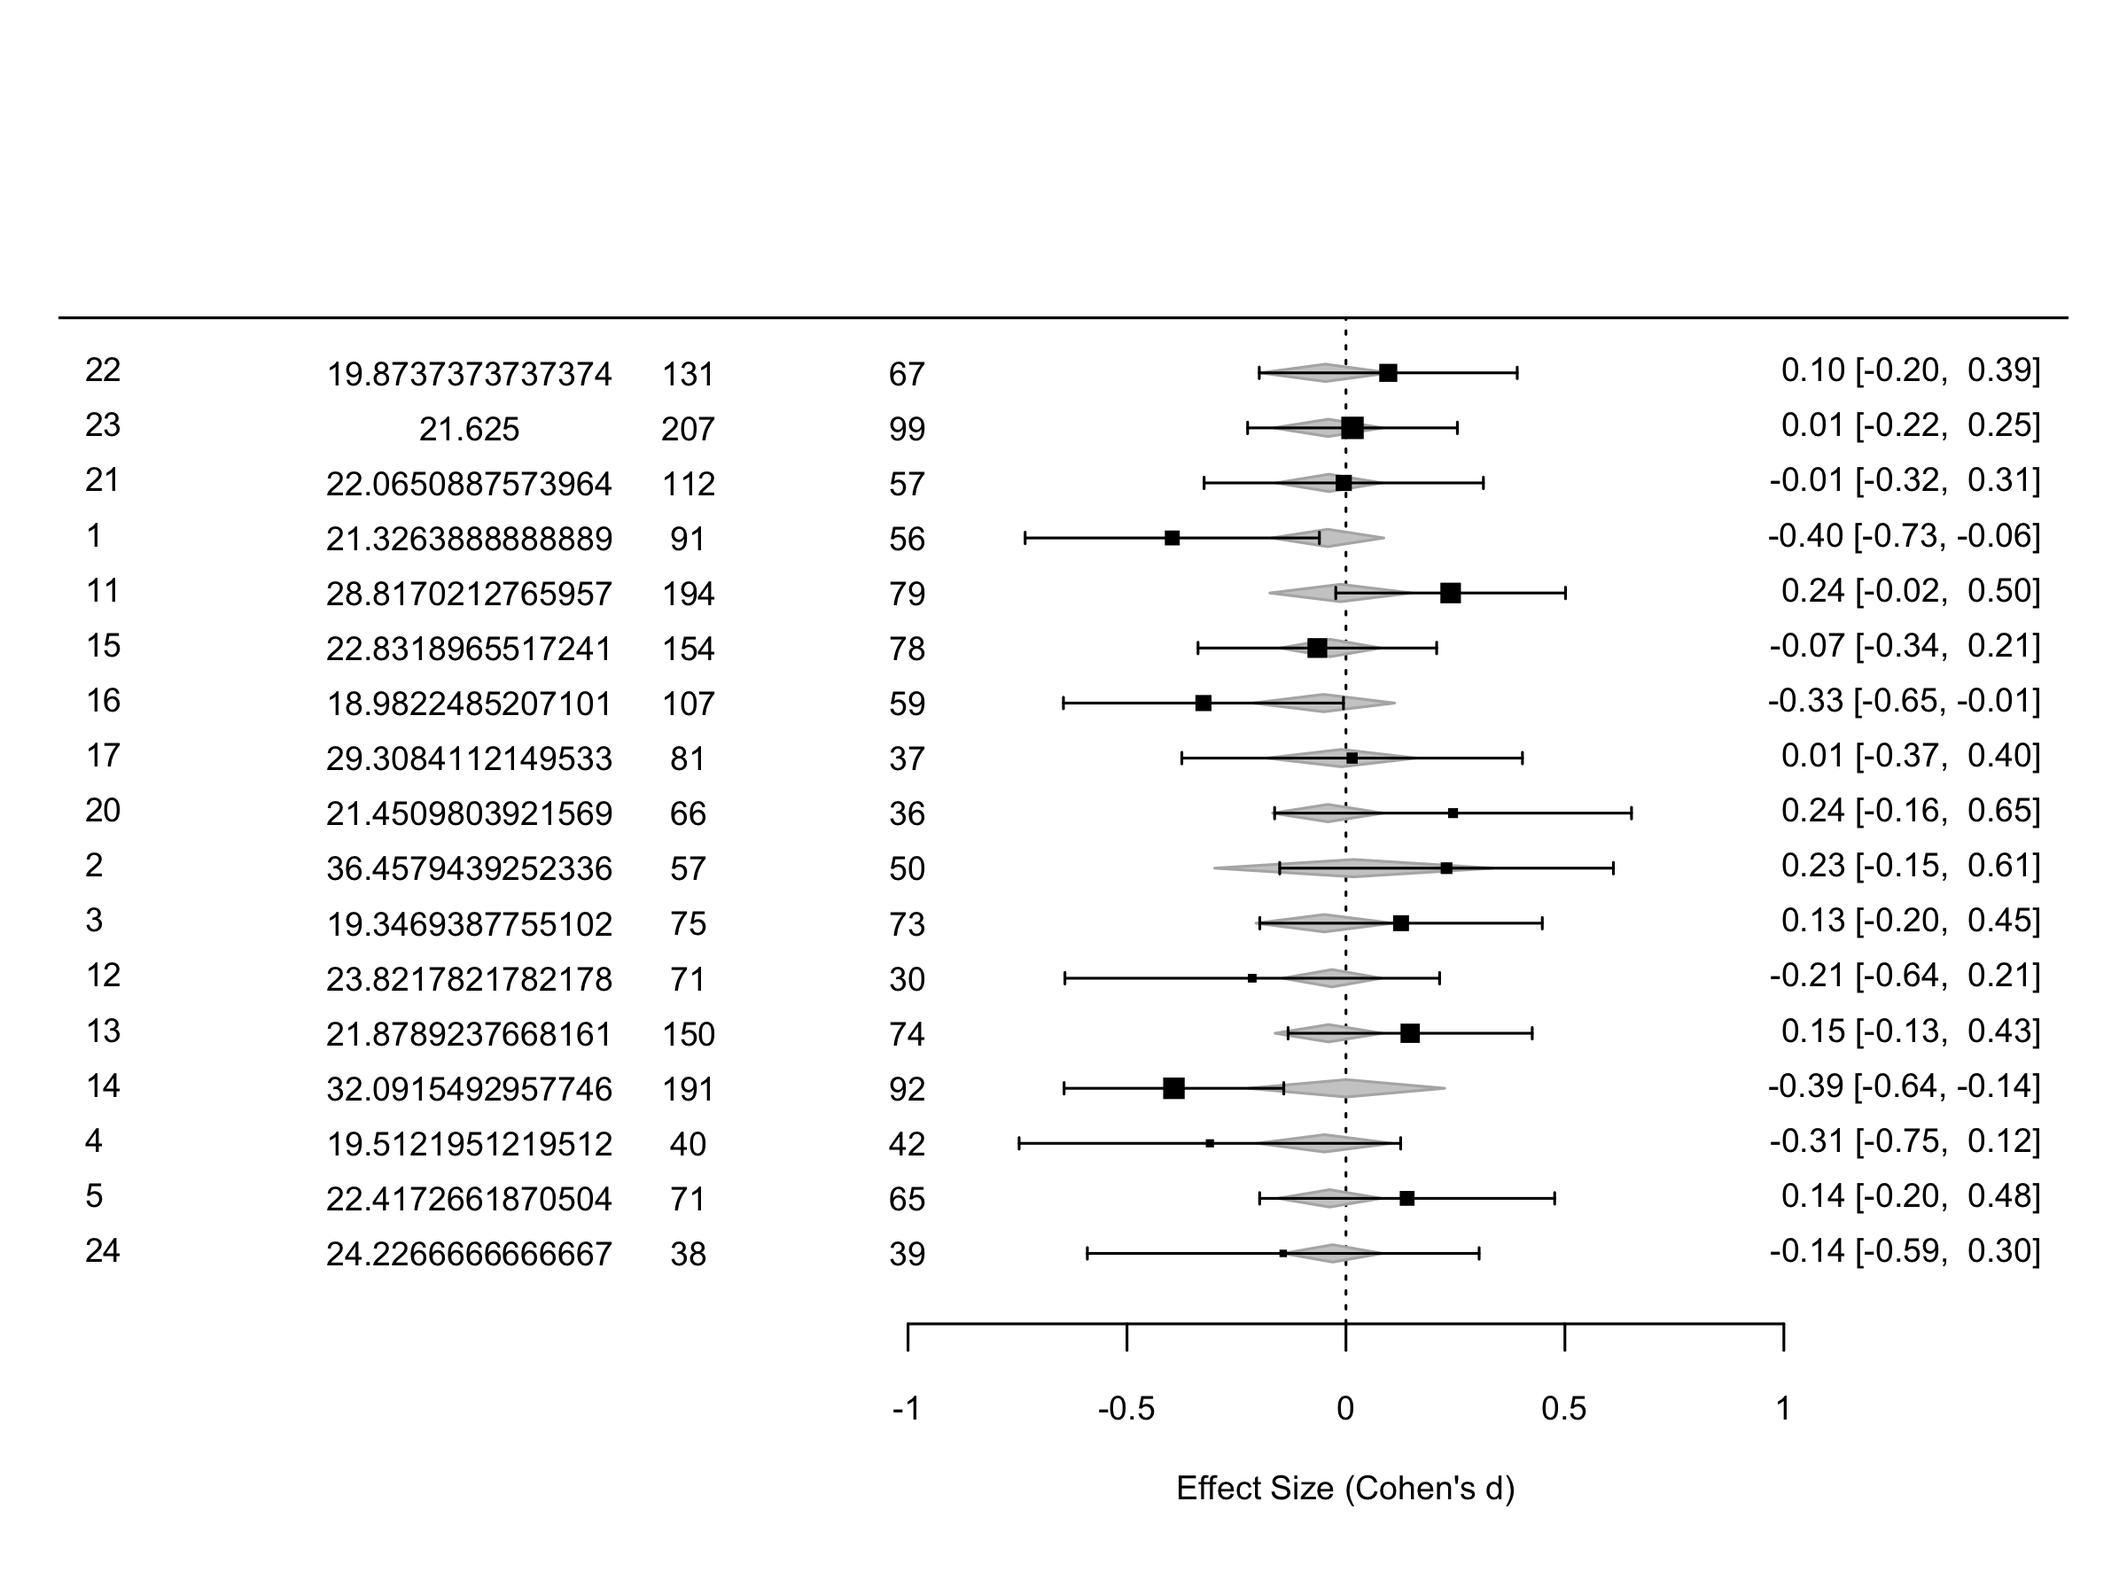
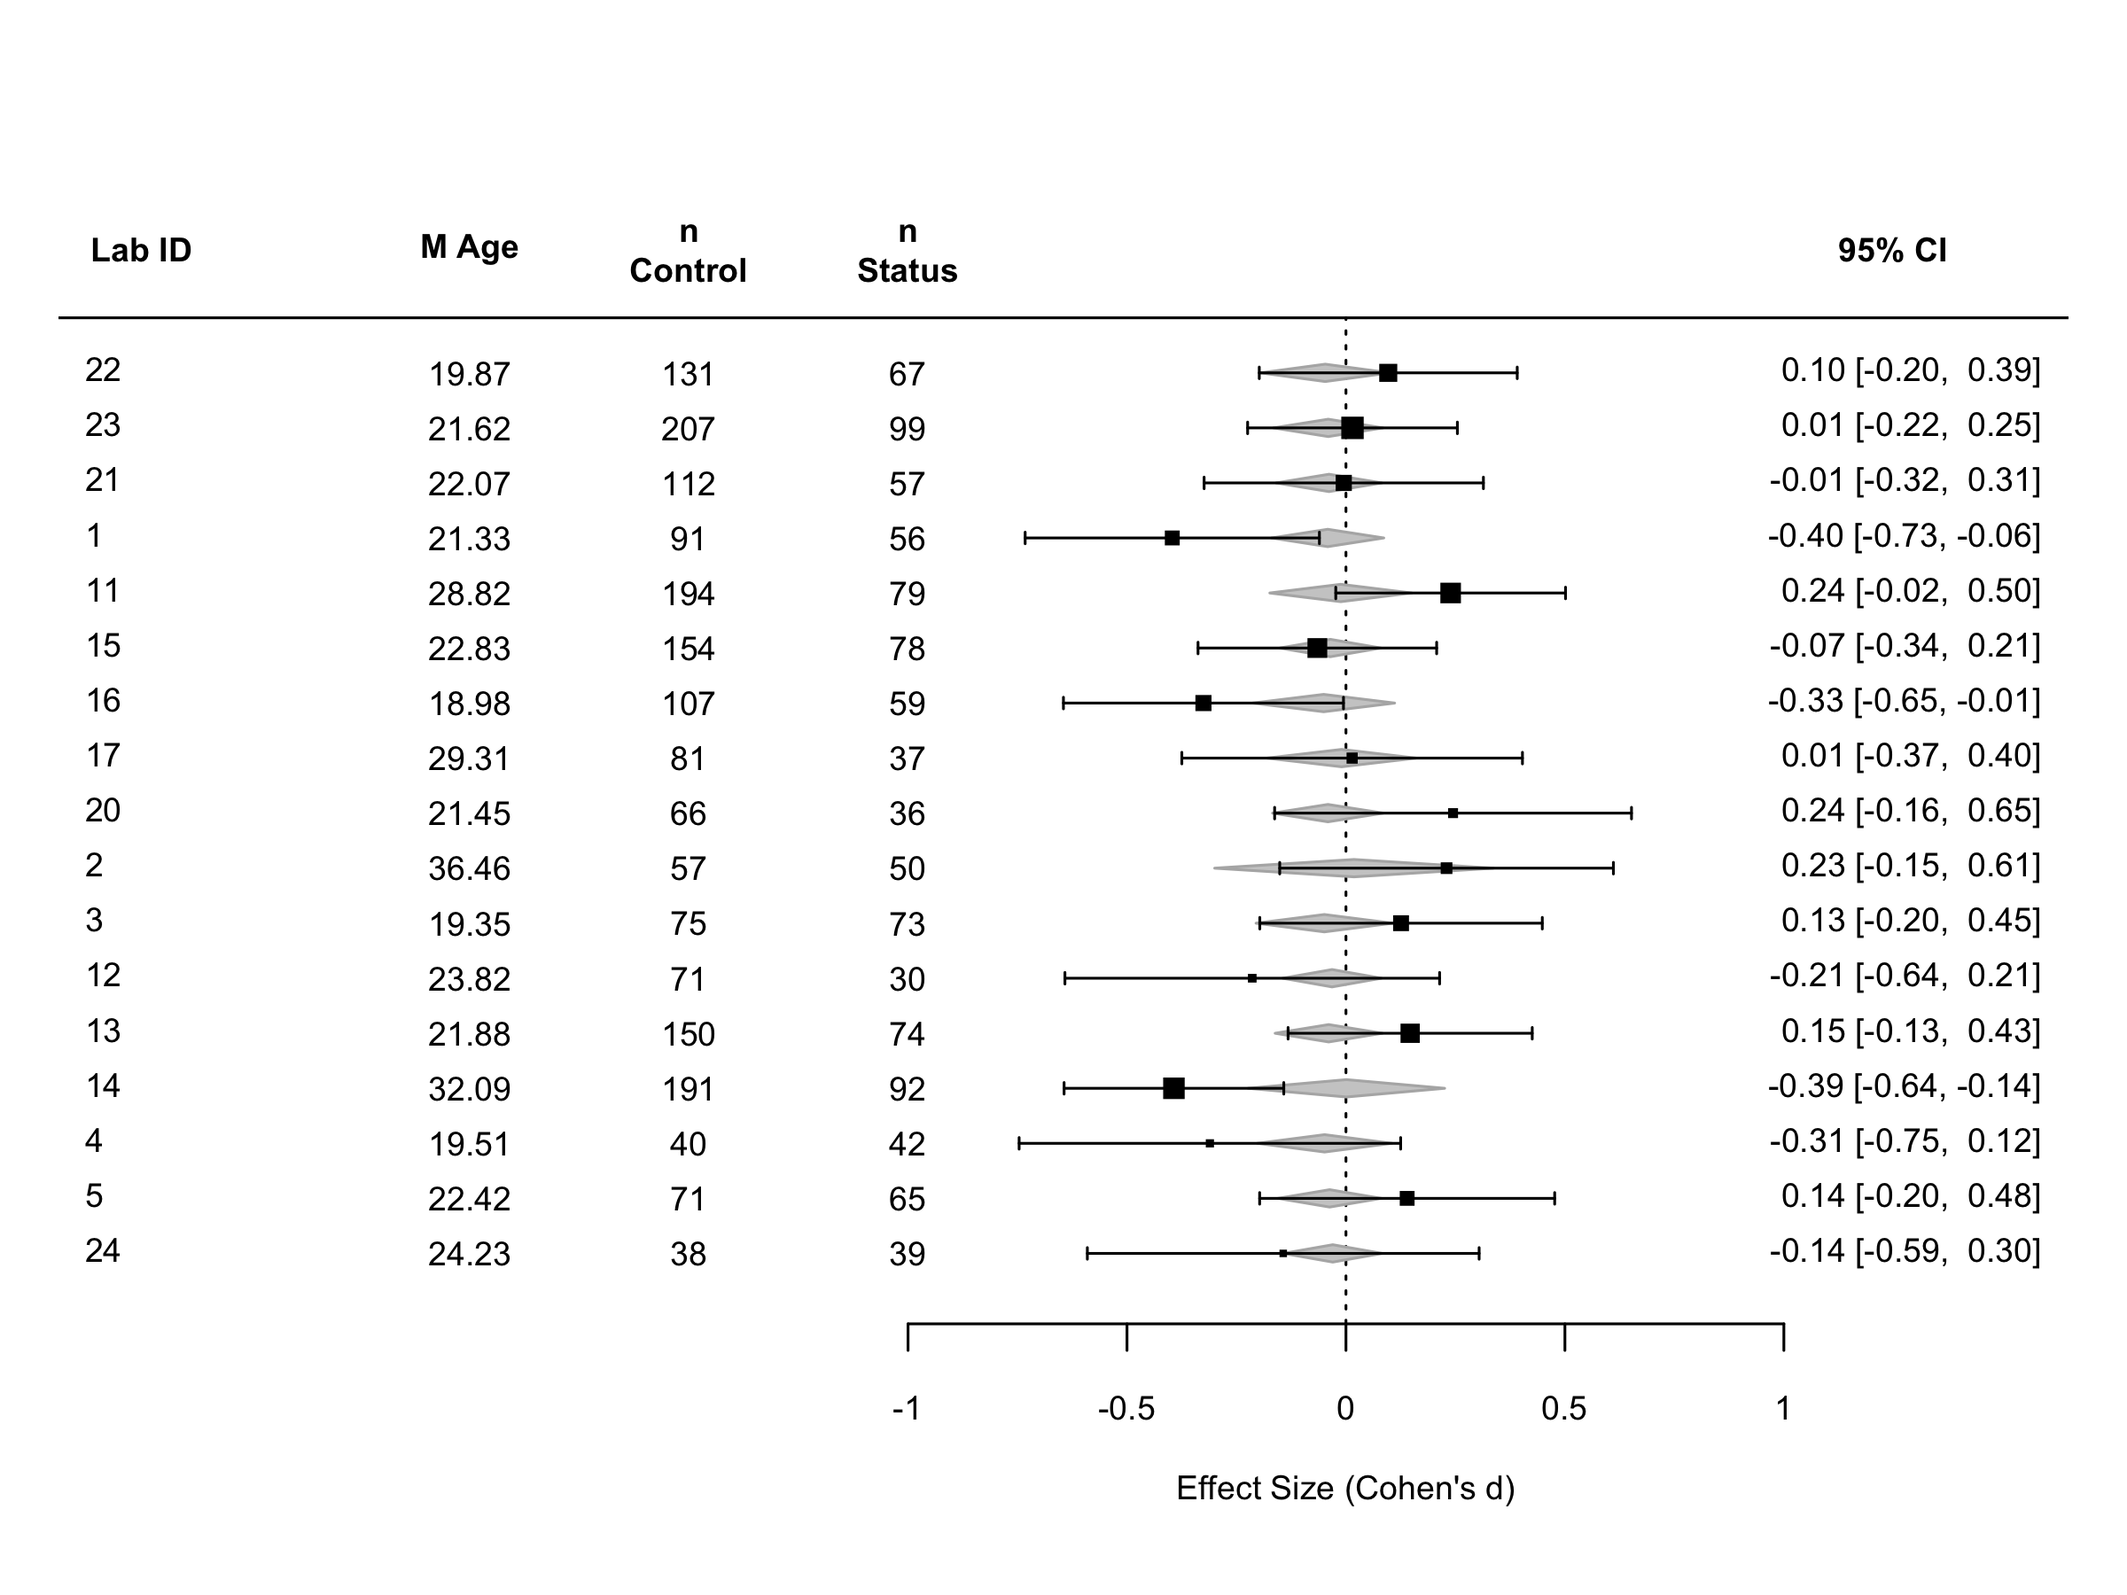
updating effect sizes and meta analyses results

diff --git a/meta-analysis/meta-analysis.html b/meta-analysis/meta-analysis.html
@@ -11,7 +11,7 @@
 
 <meta name="author" content="Erin M. Buchanan" />
 
-<meta name="date" content="2024-10-22" />
+<meta name="date" content="2024-11-13" />
 
 <title>Meta Analysis</title>
 
@@ -352,7 +352,7 @@ display: none;
 
 <h1 class="title toc-ignore">Meta Analysis</h1>
 <h4 class="author">Erin M. Buchanan</h4>
-<h4 class="date">2024-10-22</h4>
+<h4 class="date">2024-11-13</h4>
 
 </div>
 
@@ -434,7 +434,12 @@ DF &lt;- DF %&gt;%
 DF &lt;- DF %&gt;%
   group_by(project_code) %&gt;%
   mutate(proportion_conservative = mean(LiborCon_code, na.rm = TRUE)) %&gt;%
-  ungroup()</code></pre>
+  ungroup()
+
+DF &lt;- DF %&gt;% 
+  mutate(location = factor(location, 
+                           levels = c(&quot;USA&quot;, &quot;other&quot;),
+                           labels = c(&quot;USA&quot;, &quot;Other&quot;)))</code></pre>
 </div>
 <div id="effect-size" class="section level2">
 <h2>Effect Size</h2>
@@ -485,7 +490,8 @@ effect_sizes &lt;- DF %&gt;%
     mean_age = first(mean_age),
     proportion_male = first(proportion_male),
     proportion_republican = first(proportion_republican),
-    proportion_conservative = first(proportion_conservative)
+    proportion_conservative = first(proportion_conservative), 
+    location = first(location)
   ) %&gt;%
   mutate(
     total_effect_d = map_dbl(es_result, ~ .x$d_value),
@@ -497,7 +503,8 @@ effect_sizes &lt;- DF %&gt;%
     sd_control = map_dbl(es_result, ~ .x$sd_control),
     sd_status = map_dbl(es_result, ~ .x$sd_status),
   ) %&gt;%
-  filter(!is.na(total_effect_d) &amp; !is.na(variance))  # Remove rows with NA effect sizes</code></pre>
+  filter(!is.na(total_effect_d) &amp; !is.na(variance))  %&gt;%  # Remove rows with NA effect sizes
+  mutate(mean_age = format(round(mean_age, digits = 2), nsmall = 2)) </code></pre>
 <pre><code>## Warning: There was 1 warning in `summarize()`.
 ## ℹ In argument: `es_result = list(calculate_effect_size(cur_data()))`.
 ## ℹ In group 1: `project_code = 1`.
@@ -531,7 +538,7 @@ print(missing_summary_effect_sizes)</code></pre>
 <pre><code>## # A tibble: 1 × 18
 ##   project_code location setting  year mean_age proportion_male
 ##          &lt;int&gt;    &lt;int&gt;   &lt;int&gt; &lt;int&gt;    &lt;int&gt;           &lt;int&gt;
-## 1            0        0       1     0        7               4
+## 1            0        0       1     0        0               4
 ## # ℹ 12 more variables: proportion_republican &lt;int&gt;,
 ## #   proportion_conservative &lt;int&gt;, total_effect_d &lt;int&gt;, variance &lt;int&gt;,
 ## #   n_control &lt;int&gt;, n_status &lt;int&gt;, m_control &lt;int&gt;, m_status &lt;int&gt;,
@@ -544,17 +551,17 @@ effect_sizes &lt;- effect_sizes %&gt;%
 print(effect_sizes)</code></pre>
 <pre><code>## # A tibble: 24 × 19
 ##    project_code location setting  year mean_age proportion_male
-##           &lt;int&gt; &lt;chr&gt;    &lt;chr&gt;   &lt;dbl&gt;    &lt;dbl&gt;           &lt;dbl&gt;
-##  1            1 USA      Lab      2018     21.3           0.461
-##  2            2 USA      Online   2019     36.5           0.234
-##  3            3 USA      Online   2019     19.3           0.238
-##  4            4 USA      Online   2020     19.5           0.207
-##  5            5 USA      Online   2020     22.4           0.741
-##  6            6 USA      Lab      2020    NaN           NaN    
-##  7            7 other    Online   2020    NaN           NaN    
-##  8            8 other    Lab      2019    NaN             0.133
-##  9            9 other    Online   2020    NaN           NaN    
-## 10           10 other    Online   2020    NaN           NaN    
+##           &lt;int&gt; &lt;fct&gt;    &lt;chr&gt;   &lt;dbl&gt; &lt;chr&gt;              &lt;dbl&gt;
+##  1            1 USA      Lab      2018 &quot;21.33&quot;            0.461
+##  2            2 USA      Online   2019 &quot;36.46&quot;            0.234
+##  3            3 USA      Online   2019 &quot;19.35&quot;            0.238
+##  4            4 USA      Online   2020 &quot;19.51&quot;            0.207
+##  5            5 USA      Online   2020 &quot;22.42&quot;            0.741
+##  6            6 USA      Lab      2020 &quot;  NaN&quot;          NaN    
+##  7            7 Other    Online   2020 &quot;  NaN&quot;          NaN    
+##  8            8 Other    Lab      2019 &quot;  NaN&quot;            0.133
+##  9            9 Other    Online   2020 &quot;  NaN&quot;          NaN    
+## 10           10 Other    Online   2020 &quot;  NaN&quot;          NaN    
 ## # ℹ 14 more rows
 ## # ℹ 13 more variables: proportion_republican &lt;dbl&gt;,
 ## #   proportion_conservative &lt;dbl&gt;, total_effect_d &lt;dbl&gt;, variance &lt;dbl&gt;,
@@ -562,6 +569,16 @@ print(effect_sizes)</code></pre>
 ## #   sd_control &lt;dbl&gt;, sd_status &lt;dbl&gt;, mf_d &lt;dbl&gt;, mf_v &lt;dbl&gt;, vi &lt;dbl&gt;</code></pre>
 <pre class="r"><code># arrange in order 
 effect_sizes &lt;- effect_sizes %&gt;% arrange(year, project_code)
+
+# Loop over each column and replace NaN with NA where applicable
+effect_sizes[] &lt;- lapply(effect_sizes, function(x) {
+  if (is.numeric(x)) {
+    x[is.nan(x)] &lt;- NA
+  } else {
+    x[grepl(&quot;NaN&quot;, x)] &lt;- NA
+  }
+  return(x)
+})
 
 # Save the effect sizes and meta-analysis results to a file
 write.csv(effect_sizes, &quot;../data/effect_sizes.csv&quot;, row.names = FALSE)</code></pre>
@@ -677,7 +694,7 @@ png(&quot;../figures/meta_mods_setting.png&quot;,
          ilab.xpos = c(-2, -1.5, -1),
          cex = 0.75)
   op &lt;- par(xpd = NA)
-  text(x = c(-2.6, -2, -1.5, -1, 1.25), y = max(model2_mods$yi) + 26,
+  text(x = c(-2.75, -2, -1.5, -1, 1.25), y = max(model2_mods$yi) + 25,
        labels = c(&quot;Lab ID&quot;, &quot;Setting&quot;, &quot;n\nControl&quot;, &quot;n\nStatus&quot;, &quot;95% CI&quot;),
        cex = 0.75, font = 2)
   par(op)
@@ -739,7 +756,7 @@ png(&quot;../figures/meta_mods_year.png&quot;,
          ilab.xpos = c(-2, -1.5, -1),
          cex = 0.75)
   op &lt;- par(xpd = NA)
-  text(x = c(-2.6, -2, -1.5, -1, 1.25), y = max(model3_mods$yi) + 26,
+  text(x = c(-2.75, -2, -1.5, -1, 1.25), y = max(model3_mods$yi) + 26,
        labels = c(&quot;Lab ID&quot;, &quot;Year&quot;, &quot;n\nControl&quot;, &quot;n\nStatus&quot;, &quot;95% CI&quot;),
        cex = 0.75, font = 2)
   par(op)
@@ -754,7 +771,7 @@ dev.off()</code></pre>
 <pre class="r"><code># Conduct meta-analysis using metafor without
 model4_mods &lt;- rma(yi = total_effect_d, 
                      vi = vi, 
-                     mods = ~ mean_age,
+                     mods = ~ as.numeric(mean_age),
                      data = effect_sizes,
                      method = &quot;REML&quot;)</code></pre>
 <pre><code>## Warning: 7 studies with NAs omitted from model fitting.</code></pre>
@@ -763,7 +780,7 @@ model4_mods &lt;- rma(yi = total_effect_d,
 ## Mixed-Effects Model (k = 17; tau^2 estimator: REML)
 ## 
 ##   logLik  deviance       AIC       BIC      AICc   
-##   0.5779   -1.1558    4.8442    6.9683    7.0260   
+##   0.5781   -1.1562    4.8438    6.9680    7.0257   
 ## 
 ## tau^2 (estimated amount of residual heterogeneity):     0.0276 (SE = 0.0202)
 ## tau (square root of estimated tau^2 value):             0.1662
@@ -775,13 +792,13 @@ model4_mods &lt;- rma(yi = total_effect_d,
 ## QE(df = 15) = 30.4088, p-val = 0.0105
 ## 
 ## Test of Moderators (coefficient 2):
-## QM(df = 1) = 0.1072, p-val = 0.7434
+## QM(df = 1) = 0.1075, p-val = 0.7431
 ## 
 ## Model Results:
 ## 
-##           estimate      se     zval    pval    ci.lb   ci.ub    
-## intrcpt    -0.1260  0.2947  -0.4276  0.6690  -0.7037  0.4516    
-## mean_age    0.0040  0.0121   0.3273  0.7434  -0.0197  0.0277    
+##                       estimate      se     zval    pval    ci.lb   ci.ub    
+## intrcpt                -0.1261  0.2947  -0.4280  0.6686  -0.7037  0.4514    
+## as.numeric(mean_age)    0.0040  0.0121   0.3278  0.7431  -0.0197  0.0277    
 ## 
 ## ---
 ## Signif. codes:  0 &#39;***&#39; 0.001 &#39;**&#39; 0.01 &#39;*&#39; 0.05 &#39;.&#39; 0.1 &#39; &#39; 1</code></pre>
@@ -801,8 +818,8 @@ png(&quot;../figures/meta_mods_age.png&quot;,
          ilab.xpos = c(-2, -1.5, -1),
          cex = 0.75)
   op &lt;- par(xpd = NA)
-  text(x = c(-2.6, -2, -1.5, -1, 1.25), y = max(model4_mods$yi) + 26,
-       labels = c(&quot;Lab ID&quot;, &quot;Age&quot;, &quot;n\nControl&quot;, &quot;n\nStatus&quot;, &quot;95% CI&quot;),
+  text(x = c(-2.75, -2, -1.5, -1, 1.25), y = max(model4_mods$yi) + 19,
+       labels = c(&quot;Lab ID&quot;, &quot;M Age&quot;, &quot;n\nControl&quot;, &quot;n\nStatus&quot;, &quot;95% CI&quot;),
        cex = 0.75, font = 2)
   par(op)
 }
@@ -859,12 +876,14 @@ png(&quot;../figures/meta_mods_male.png&quot;,
   forest(model5_mods, 
          xlab = &quot;Effect Size (Cohen&#39;s d)&quot;, 
          slab = paste(effect_sizes$project_code),
-         ilab = cbind(effect_sizes$mean_age, effect_sizes$n_control, effect_sizes$n_status),
+         ilab = cbind(
+           format(round(effect_sizes$proportion_male, digits = 2), nsmall = 2), 
+                        effect_sizes$n_control, effect_sizes$n_status),
          ilab.xpos = c(-2, -1.5, -1),
          cex = 0.75)
   op &lt;- par(xpd = NA)
-  text(x = c(-2.6, -2, -1.5, -1, 1.25), y = max(model5_mods$yi) + 26,
-       labels = c(&quot;Lab ID&quot;, &quot;Age&quot;, &quot;n\nControl&quot;, &quot;n\nStatus&quot;, &quot;95% CI&quot;),
+  text(x = c(-2.75, -2, -1.5, -1, 1.25), y = max(model5_mods$yi) + 22,
+       labels = c(&quot;Lab ID&quot;, &quot;Male&quot;, &quot;n\nControl&quot;, &quot;n\nStatus&quot;, &quot;95% CI&quot;),
        cex = 0.75, font = 2)
   par(op)
 }
@@ -921,12 +940,14 @@ png(&quot;../figures/meta_mods_rep.png&quot;,
   forest(model6_mods, 
          xlab = &quot;Effect Size (Cohen&#39;s d)&quot;, 
          slab = paste(effect_sizes$project_code),
-         ilab = cbind(effect_sizes$mean_age, effect_sizes$n_control, effect_sizes$n_status),
+         ilab = cbind(
+           format(round(effect_sizes$proportion_republican, digits = 2), nsmall = 2), 
+                      effect_sizes$n_control, effect_sizes$n_status),
          ilab.xpos = c(-2, -1.5, -1),
          cex = 0.75)
   op &lt;- par(xpd = NA)
-  text(x = c(-2.6, -2, -1.5, -1, 1.25), y = max(model6_mods$yi) + 26,
-       labels = c(&quot;Lab ID&quot;, &quot;Age&quot;, &quot;n\nControl&quot;, &quot;n\nStatus&quot;, &quot;95% CI&quot;),
+  text(x = c(-2.75, -2, -1.5, -1, 1.25), y = max(model6_mods$yi) + 5.25,
+       labels = c(&quot;Lab ID&quot;, &quot;Republican&quot;, &quot;n\nControl&quot;, &quot;n\nStatus&quot;, &quot;95% CI&quot;),
        cex = 0.75, font = 2)
   par(op)
 }
@@ -983,12 +1004,76 @@ png(&quot;../figures/meta_mods_cons.png&quot;,
   forest(model7_mods, 
          xlab = &quot;Effect Size (Cohen&#39;s d)&quot;, 
          slab = paste(effect_sizes$project_code),
-         ilab = cbind(effect_sizes$mean_age, effect_sizes$n_control, effect_sizes$n_status),
+         ilab = cbind(
+           format(round(effect_sizes$proportion_conservative, digits = 2), nsmall = 2), 
+           effect_sizes$n_control, effect_sizes$n_status),
          ilab.xpos = c(-2, -1.5, -1),
          cex = 0.75)
   op &lt;- par(xpd = NA)
-  text(x = c(-2.6, -2, -1.5, -1, 1.25), y = max(model7_mods$yi) + 26,
-       labels = c(&quot;Lab ID&quot;, &quot;Age&quot;, &quot;n\nControl&quot;, &quot;n\nStatus&quot;, &quot;95% CI&quot;),
+  text(x = c(-2.75, -2, -1.5, -1, 1.25), y = max(model7_mods$yi) + 11.5,
+       labels = c(&quot;Lab ID&quot;, &quot;Conservative&quot;, &quot;n\nControl&quot;, &quot;n\nStatus&quot;, &quot;95% CI&quot;),
+       cex = 0.75, font = 2)
+  par(op)
+}
+
+dev.off()</code></pre>
+<pre><code>## quartz_off_screen 
+##                 2</code></pre>
+</div>
+<div id="moderator-location" class="section level2">
+<h2>Moderator: Location</h2>
+<pre class="r"><code># Conduct meta-analysis using metafor without
+model8_mods &lt;- rma(yi = total_effect_d, 
+                     vi = vi, 
+                     mods = ~ location,
+                     data = effect_sizes,
+                     method = &quot;REML&quot;)
+
+summary(model8_mods)</code></pre>
+<pre><code>## 
+## Mixed-Effects Model (k = 24; tau^2 estimator: REML)
+## 
+##   logLik  deviance       AIC       BIC      AICc   
+##   3.2905   -6.5809   -0.5809    2.6922    0.7524   
+## 
+## tau^2 (estimated amount of residual heterogeneity):     0.0151 (SE = 0.0134)
+## tau (square root of estimated tau^2 value):             0.1228
+## I^2 (residual heterogeneity / unaccounted variability): 34.06%
+## H^2 (unaccounted variability / sampling variability):   1.52
+## R^2 (amount of heterogeneity accounted for):            0.00%
+## 
+## Test for Residual Heterogeneity:
+## QE(df = 22) = 31.8736, p-val = 0.0796
+## 
+## Test of Moderators (coefficient 2):
+## QM(df = 1) = 0.2225, p-val = 0.6372
+## 
+## Model Results:
+## 
+##                estimate      se     zval    pval    ci.lb   ci.ub    
+## intrcpt         -0.0163  0.0567  -0.2874  0.7738  -0.1274  0.0948    
+## locationOther   -0.0418  0.0886  -0.4717  0.6372  -0.2153  0.1318    
+## 
+## ---
+## Signif. codes:  0 &#39;***&#39; 0.001 &#39;**&#39; 0.01 &#39;*&#39; 0.05 &#39;.&#39; 0.1 &#39; &#39; 1</code></pre>
+<pre class="r"><code># Create a PNG file with high resolution (300 DPI)
+png(&quot;../figures/meta_mods_location.png&quot;,
+    width = 8,
+    height = 6,
+    units = &quot;in&quot;,
+    res = 300)
+
+{
+  # Create a forest plot for the mixed-effects meta-analysis
+  forest(model8_mods, 
+         xlab = &quot;Effect Size (Cohen&#39;s d)&quot;, 
+         slab = paste(effect_sizes$project_code),
+         ilab = cbind(effect_sizes$location, effect_sizes$n_control, effect_sizes$n_status),
+         ilab.xpos = c(-2, -1.5, -1),
+         cex = 0.75)
+  op &lt;- par(xpd = NA)
+  text(x = c(-2.75, -2, -1.5, -1, 1.25), y = max(model8_mods$yi) + 26,
+       labels = c(&quot;Lab ID&quot;, &quot;Location&quot;, &quot;n\nControl&quot;, &quot;n\nStatus&quot;, &quot;95% CI&quot;),
        cex = 0.75, font = 2)
   par(op)
 }
